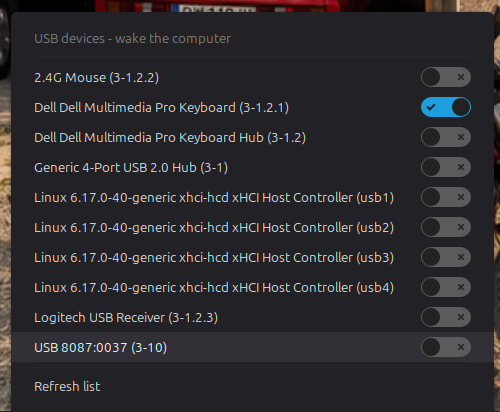
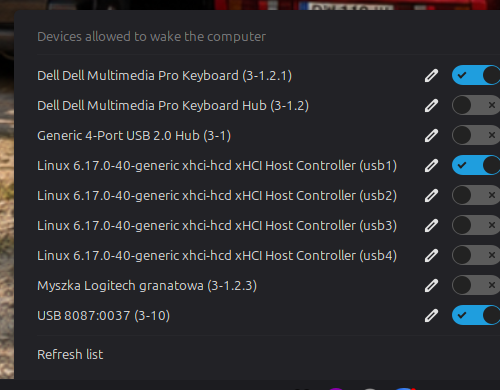
Add inline device rename to the panel applet
Mirror the GTK window's inline rename feature (pencil icon, edit in
place, Enter/focus-out to save, Esc to cancel) in the Cinnamon panel
applet, sharing the same ~/.config/usb-wakeup/labels.json. Also fixes
a Cinnamon popup-menu quirk where destroying the focused rename entry
closed the whole menu (PopupMenuManager treats momentary null key
focus as "clicked outside"); worked around by re-grabbing focus onto
the menu actor before destroying the entry's row.

diff --git a/usb-wakeup@jkatnik/applet.js b/usb-wakeup@jkatnik/applet.js
@@ -3,10 +3,14 @@ const PopupMenu = imports.ui.popupMenu;
 const Main = imports.ui.main;
 const GLib = imports.gi.GLib;
 const Gio = imports.gi.Gio;
+const St = imports.gi.St;
+const Clutter = imports.gi.Clutter;
+const Tooltips = imports.ui.tooltips;
 const ByteArray = imports.byteArray;
 
 const HELPER_SCRIPT = "/usr/local/bin/usb-wakeup-helper.sh";
 const SYSFS_USB_ROOT = "/sys/bus/usb/devices";
+const LABELS_FILE = GLib.get_user_config_dir() + "/usb-wakeup/labels.json";
 
 const STRINGS = {
     pl: {
@@ -17,6 +21,7 @@ const STRINGS = {
         notifyTitle: "Wybudzanie USB",
         notifyHelperFail: "Nie udalo sie uzyskac uprawnien administratora",
         notifySetFail: label => "Nie udalo sie zmienic ustawienia dla: " + label,
+        rename: "Zmien nazwe (Enter - zapisz, Esc - anuluj)",
     },
     en: {
         tooltip: "USB wake-up",
@@ -26,6 +31,7 @@ const STRINGS = {
         notifyTitle: "USB wake-up",
         notifyHelperFail: "Could not get administrator permission",
         notifySetFail: label => "Could not change the setting for: " + label,
+        rename: "Rename (Enter to save, Esc to cancel)",
     },
 };
 
@@ -97,6 +103,32 @@ class UsbWakeupApplet extends Applet.IconApplet {
         }
     }
 
+    _loadLabelOverrides() {
+        let contents = this._readFile(LABELS_FILE);
+        if (!contents) return {};
+        try {
+            let data = JSON.parse(contents);
+            return (data && typeof data === 'object') ? data : {};
+        } catch (e) {
+            return {};
+        }
+    }
+
+    _saveLabelOverrides(overrides) {
+        GLib.mkdir_with_parents(GLib.path_get_dirname(LABELS_FILE), 0o755);
+        GLib.file_set_contents(LABELS_FILE, JSON.stringify(overrides, null, 2));
+    }
+
+    _setLabelOverride(key, customLabel) {
+        let overrides = this._loadLabelOverrides();
+        if (customLabel) {
+            overrides[key] = customLabel;
+        } else {
+            delete overrides[key];
+        }
+        this._saveLabelOverrides(overrides);
+    }
+
     _listUsbDevices() {
         let devices = [];
         let baseDir = Gio.File.new_for_path(SYSFS_USB_ROOT);
@@ -108,6 +140,8 @@ class UsbWakeupApplet extends Applet.IconApplet {
             global.logError("usb-wakeup: cannot read " + SYSFS_USB_ROOT + ": " + e);
             return devices;
         }
+
+        let overrides = this._loadLabelOverrides();
 
         let info;
         while ((info = enumerator.next_file(null)) !== null) {
@@ -128,14 +162,19 @@ class UsbWakeupApplet extends Applet.IconApplet {
             let vendorId = (this._readFile(devPath + '/idVendor') || '').trim();
             let productId = (this._readFile(devPath + '/idProduct') || '').trim();
 
-            let label = [manufacturer, product].filter(s => s.length > 0).join(' ');
-            if (label.length === 0) {
-                label = "USB " + vendorId + ":" + productId;
+            let defaultLabel = [manufacturer, product].filter(s => s.length > 0).join(' ');
+            if (defaultLabel.length === 0) {
+                defaultLabel = "USB " + vendorId + ":" + productId;
             }
+
+            let key = (vendorId && productId) ? (vendorId + ':' + productId) : ('id:' + name);
+            let label = overrides[key] || defaultLabel;
 
             devices.push({
                 id: name,
-                label: label + " (" + name + ")",
+                key: key,
+                label: label,
+                defaultLabel: defaultLabel,
                 enabled: wakeupState === 'enabled'
             });
         }
@@ -147,6 +186,8 @@ class UsbWakeupApplet extends Applet.IconApplet {
 
     _updateDeviceSection() {
         this.deviceSection.removeAll();
+        this._activeEditItem = null;
+        this._activeEditDev = null;
 
         let devices = this._listUsbDevices();
 
@@ -155,13 +196,114 @@ class UsbWakeupApplet extends Applet.IconApplet {
                 S.noDevices, { reactive: false }));
         } else {
             for (let dev of devices) {
-                let item = new PopupMenu.PopupSwitchMenuItem(dev.label, dev.enabled);
+                let item = new PopupMenu.PopupSwitchMenuItem(
+                    dev.label + " (" + dev.id + ")", dev.enabled);
                 item.connect('toggled', (menuItem, state) => {
                     this._setWakeup(dev.id, dev.label, state, menuItem);
                 });
+
+                let icon = new St.Icon({
+                    style_class: 'popup-menu-icon',
+                    icon_name: 'document-edit-symbolic',
+                    icon_type: St.IconType.SYMBOLIC
+                });
+                let editButton = new St.Button({ child: icon, can_focus: true });
+                new Tooltips.Tooltip(editButton, S.rename);
+                editButton.connect('clicked', () => {
+                    this._toggleInlineEdit(item, dev);
+                });
+                // Inserted before the switch's status bin (which uses span:-1
+                // to fill remaining width), so it gets its own natural-width
+                // column instead of being crowded out by it.
+                item.addActor(editButton, { position: 2 });
+
                 this.deviceSection.addMenuItem(item);
             }
         }
+    }
+
+    _toggleInlineEdit(item, dev) {
+        if (this._activeEditDev === dev.key) {
+            this._closeActiveEdit(false);
+            return;
+        }
+        this._closeActiveEdit(true);
+
+        let entry = new St.Entry({
+            text: dev.label,
+            can_focus: true,
+            x_expand: true
+        });
+
+        let editItem = new PopupMenu.PopupBaseMenuItem({ reactive: false, activate: false });
+        editItem.addActor(entry, { expand: true, span: -1 });
+
+        let items = this.deviceSection.box.get_children();
+        let index = items.indexOf(item.actor);
+        this.deviceSection.addMenuItem(editItem, index + 1);
+
+        let finished = false;
+        let finish = (save) => {
+            if (finished) return;
+            finished = true;
+            this._activeEditItem = null;
+            this._activeEditDev = null;
+            GLib.idle_add(GLib.PRIORITY_DEFAULT, () => {
+                if (save) {
+                    let newLabel = entry.get_text().trim();
+                    if (newLabel && newLabel !== dev.defaultLabel) {
+                        this._setLabelOverride(dev.key, newLabel);
+                    } else {
+                        this._setLabelOverride(dev.key, null);
+                    }
+                }
+                // Move key focus back onto the menu before destroying the
+                // focused entry: if focus briefly becomes null, the popup
+                // menu manager treats that as "focus left the menu" and
+                // closes the whole menu (see PopupMenuManager._onKeyFocusChanged).
+                this.menu.actor.grab_key_focus();
+                editItem.destroy();
+                this._updateDeviceSection();
+                return GLib.SOURCE_REMOVE;
+            });
+        };
+
+        entry.clutter_text.connect('key-press-event', (actor, event) => {
+            let symbol = event.get_key_symbol();
+            if (symbol === Clutter.KEY_Return || symbol === Clutter.KEY_KP_Enter) {
+                finish(true);
+                return Clutter.EVENT_STOP;
+            }
+            if (symbol === Clutter.KEY_Escape) {
+                finish(false);
+                return Clutter.EVENT_STOP;
+            }
+            return Clutter.EVENT_PROPAGATE;
+        });
+        entry.clutter_text.connect('key-focus-out', () => finish(true));
+
+        this._activeEditItem = { editItem: editItem, entry: entry, dev: dev };
+        this._activeEditDev = dev.key;
+
+        entry.grab_key_focus();
+        entry.clutter_text.set_selection(0, -1);
+    }
+
+    _closeActiveEdit(save) {
+        if (!this._activeEditItem) return;
+        let { editItem, entry, dev } = this._activeEditItem;
+        this._activeEditItem = null;
+        this._activeEditDev = null;
+        if (save) {
+            let newLabel = entry.get_text().trim();
+            if (newLabel && newLabel !== dev.defaultLabel) {
+                this._setLabelOverride(dev.key, newLabel);
+            } else {
+                this._setLabelOverride(dev.key, null);
+            }
+        }
+        this.menu.actor.grab_key_focus();
+        editItem.destroy();
     }
 
     _setWakeup(deviceId, deviceLabel, enable, menuItem) {

diff --git a/AGENTS.md b/AGENTS.md
@@ -45,6 +45,20 @@ in one is reflected everywhere else.
   device enumeration/labeling — the curses menu, the GTK window, and the
   CLI (`list`/`enable`/`disable`) all read from it, so a labeling or
   enumeration change there applies everywhere automatically.
+- **Inline rename, not modal.** Both the GTK window and the panel applet
+  rename a device in place (label swaps for a text entry in the same row;
+  Enter/focus-out saves, Esc cancels) rather than opening a dialog — this
+  was an explicit user preference, not a default. `applet.js` and
+  `bin/usb-wakeup` each re-implement this independently (GJS/St vs.
+  Python/GTK) but read/write the same `labels.json`.
+- **Cinnamon popup menu + St.Entry gotcha.** `PopupMenuManager` closes the
+  menu whenever `global.stage.key_focus` moves outside the menu's actor
+  tree (`_onKeyFocusChanged` in `popupMenu.js`). Destroying a focused
+  `St.Entry` (e.g. after committing an inline rename) briefly sets focus to
+  `null`, which reads as "focus left the menu" and closes it. Fix/pattern:
+  call `this.menu.actor.grab_key_focus()` *before* destroying the entry's
+  container, every time. If you add another interactive widget inside a
+  Cinnamon `PopupMenu`, re-check this.
 
 ## Testing changes
 

diff --git a/README.md b/README.md
@@ -20,6 +20,11 @@ usable from a terminal or the application menu.
 ## Features
 
 - Panel applet: click the icon, toggle switches per device.
+- Rename devices: click the pencil icon next to a device (in the panel
+  applet or the GTK window) to give it a friendlier name, edited inline.
+  Custom names are stored in `~/.config/usb-wakeup/labels.json`, keyed by
+  USB vendor:product id, and are shared across the applet, GTK window, text
+  menu, and `usb-wakeup list`.
 - Standalone tool (`usb-wakeup`):
   - no arguments: interactive text menu with arrow-key navigation
     (curses-based)
